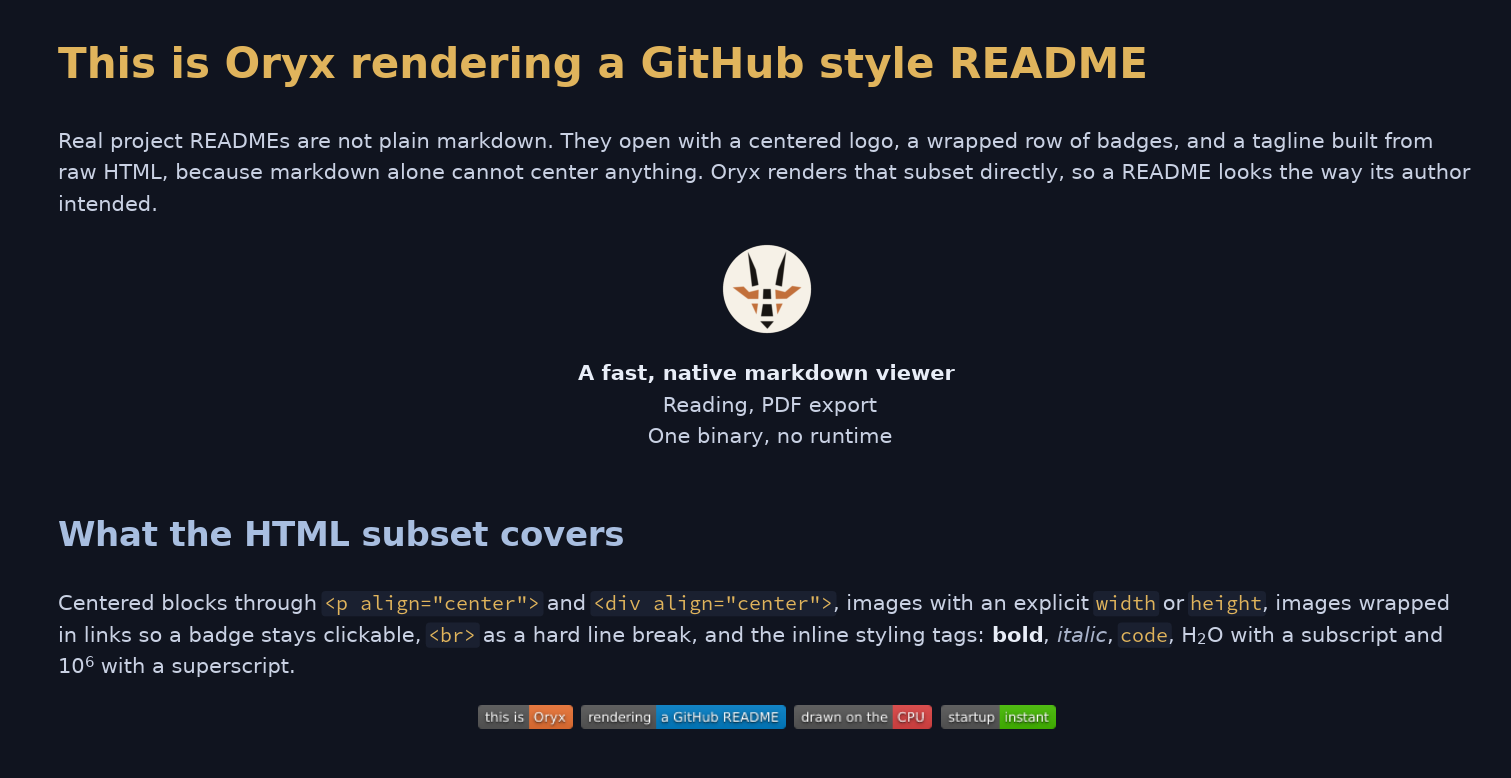
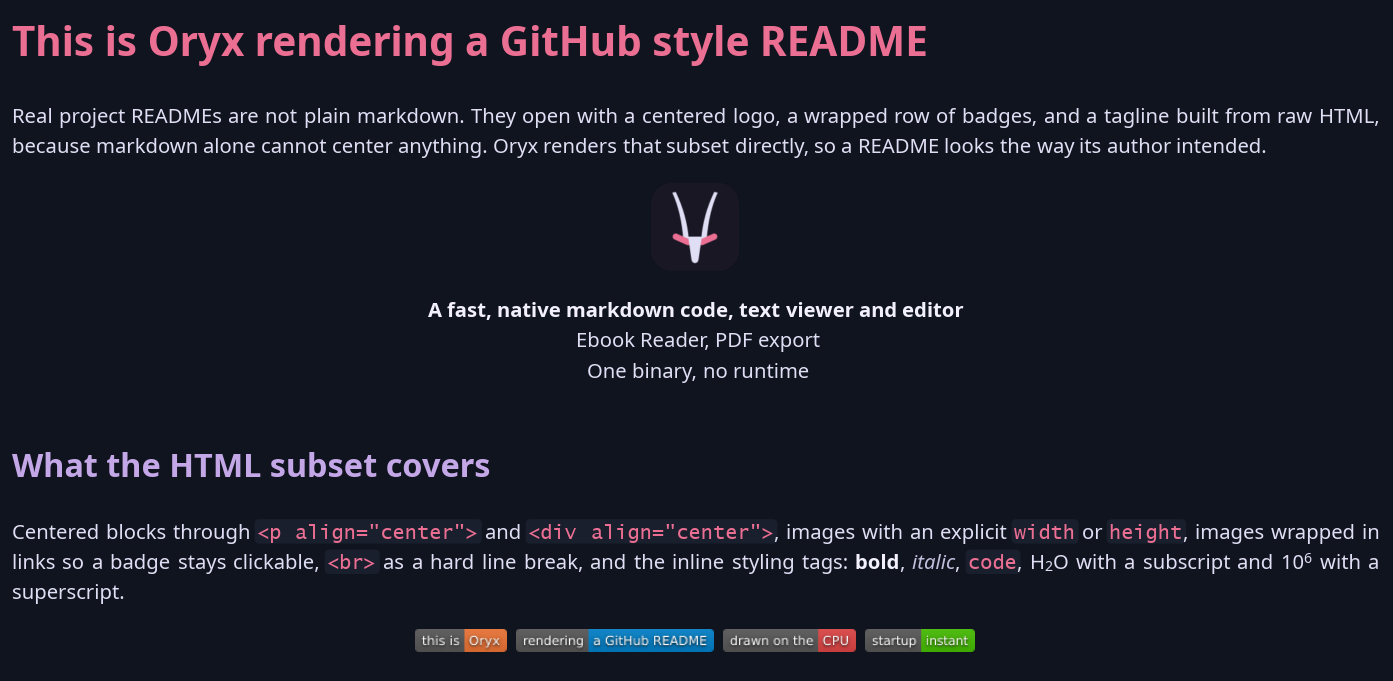
chore: 0.15.4, the editing arc complete

diff --git a/README.md b/README.md
@@ -76,7 +76,7 @@ DRM-protected books and fixed-layout books (usually comics and picture books) ar
 
 ## Tools
 
-- **Find in document**: `Ctrl+F` searches text. The search is smart about case: `oryx` matches Oryx, ORYX and oryx, while `Oryx` performs an exact match. A match can cross styling, so `fast viewer` is found even when it was written as `**fast** *viewer*`, and it can cross a wrapped line. The whole document is searchable even while a big file is still loading.
+- **Find in document**: `Ctrl+F` searches text. The search is smart about case: `oryx` matches Oryx, ORYX and oryx, while `Oryx` performs an exact match. A match can cross styling, so `fast viewer` is found even when it was written as `**fast** *viewer*`, and it can cross a wrapped line. The whole document is searchable even while a big file is still loading. The `.*` button in the search bar (or `Alt+R`) switches to regular expressions, in the Rust `fancy-regex` flavor, so capture groups, backreferences and lookarounds are available. `^` and `$` match at line starts and ends, and on the rendered page each block counts as one line. While a pattern is incomplete, the bar's border changes color instead of showing a match count. Clicking anywhere in the document closes the search bar.
 - **Select and copy**: `Ctrl+C` copies a selection as plain text. `Ctrl+Shift+C` copies the original markdown of the selection. A double click selects the word, a triple click the paragraph, the code line or the table cell. Select all is instant at any file size, a selection survives zooming, theme switches and window resizes, and both copies work before a big file has finished loading.
 - **Sidebar**: `Ctrl+Shift+B` opens a two-tab panel: the folder tree around the open file, and an outline of the document's headings that tracks the reading position, folds its branches, and jumps on a click. For a book, the outline is its table of contents. Both tabs drive entirely from the keyboard.
 - **Open file**: `Ctrl+O` opens the native file dialog.
@@ -86,9 +86,13 @@ DRM-protected books and fixed-layout books (usually comics and picture books) ar
 - **Touch**: On a touch screen, swiping scrolls the document, the sidebar and the dialogs. A swipe released while moving keeps the document scrolling with momentum. Tapping clicks, and a two-finger pinch zooms the document.
 - **Persistence**: Window geometry, the active theme, the sidebar and the last folder are all saved and restored at every start. While Oryx is open, switching between files keeps each file's place: a file left mid-edit comes back in the editor, at the same spot.
 
+<p align="center">
+  <img src="screenshots/settings.png" alt="Settings dialog in Oryx">
+</p>
+
 ## Editing
 
-Press `Ctrl+E` to enter edit mode, with a caret and the usual keys; `Escape` (or `Ctrl+E` again) returns to reading.
+Press `Ctrl+E` to enter edit mode, with a caret and the usual keys; `Escape` (or `Ctrl+E` again) returns to reading. The window title shows `editing` and a thin line in the theme's selection color runs along the top of the page, so the mode is always visible.
 
 Source code and plain text files edit on the page itself. A markdown file shows its own source instead: the page is replaced by the markdown text, drawn in the theme's colors with the markers visible. `Escape` brings the view mode with the edits applied.
 
@@ -100,9 +104,11 @@ Editing works the way a text editor does: typing, selections, `Ctrl+X` and `Ctrl
 
 `Enter` keeps the indentation of the current line. In a markdown file it also continues what you are writing: a list item gets the next marker (numbered lists count on), a task item continues unchecked, and a quoted line keeps its `>`. `Enter` on an empty item ends the list. `Tab` indents and `Shift+Tab` removes an indent, on every line of a selection at once; with the caret at a list marker, `Tab` nests the item. Whether `Tab` inserts a tab or spaces follows what the file already uses.
 
+`Ctrl+H` opens find and replace: a second field appears under the search box. `Enter` replaces the current match and moves to the next, `Ctrl+Enter` replaces every match at once, and one `Ctrl+Z` brings a replace-all back. With regular expressions, the replacement can reuse captured groups: searching `(\w+)/(\w+)` and replacing with `$2/$1` swaps the two sides of every pair. The replace field only exists in the editor; the search itself works everywhere.
+
 A task checkbox can be ticked by clicking it on the page, without entering edit mode. Nothing else on the page moves, `Ctrl+Z` undoes it, and `Ctrl+S` saves it.
 
-`Ctrl+S` saves. Oryx is careful with the file: lines that were not touched are written back unchanged, and every line keeps its own ending, so a file with Windows line endings stays that way. The window title shows a `*` while changes are unsaved. `Ctrl+Shift+S` saves under a new name.
+`Ctrl+S` saves. Oryx is careful with the file: lines that were not touched are written back unchanged, and every line keeps its own ending, so a file with Windows line endings stays that way. The window title shows a dot next to the file name while changes are unsaved. `Ctrl+Shift+S` saves under a new name.
 
 `Ctrl+N` creates a new file: the save dialog opens first, then the empty page is ready to type into. That is how Oryx knows the type of file you created to be able to apply syntax colors.
 
@@ -129,6 +135,10 @@ Nine themes are original designs: `oryx-light` and its dark twin `oryx-dark`, `o
 ## Export to PDF
 
 `Ctrl+Shift+P` opens the export settings: theme, body font and size, code font and size, page size, orientation and page numbers. Six page sizes are available: A4, Letter and Legal, and the book trim sizes. When the document is a book, a justify toggle is also present. Oryx separates the export settings from the app's own appearance and remembers them between runs. The idea is that reading in a dark theme at 22 points and exporting in a light one at 11 should not need switching back and forth each time we need an export.
+
+<p align="center">
+  <img src="screenshots/pdf-export.png" alt="Oryx export settings">
+</p>
 
 `Ctrl+P` exports the document using the configured export settings. After setting your preferences, this is usually the way to go. Markdown headings are converted to PDF outlines, and the fonts are embedded. Emoji render in the PDF as images. A book exports with each chapter starting on a new page, and its table of contents becomes the PDF outline.
 

diff --git a/SYNTAX.md b/SYNTAX.md
@@ -3,7 +3,8 @@
 Every construct Oryx recognizes, markdown and embedded HTML, shown as
 source. Each sample sits in a code block, so this file reads the same
 everywhere, including in Oryx itself. Copy any sample into a document to
-see it rendered.
+see it rendered. For math and alerts, where the result is the point,
+the rendered form also appears right under its source.
 
 ## Headings
 
@@ -65,6 +66,14 @@ Emoji shortcodes: :tada: :rocket: :warning:
 > [!WARNING]
 > [!CAUTION]
 ```
+
+The first two, rendered:
+
+> [!NOTE]
+> A note renders with its own color and title.
+
+> [!TIP]
+> A tip renders in its own color too.
 
 ## Code
 
@@ -138,6 +147,18 @@ $$
 ```
 ````
 
+The same samples, rendered:
+
+Inline math: $e^{i\pi} + 1 = 0$, or fenced: $`a^2 + b^2 = c^2`$
+
+$$
+\sum_{n=1}^{\infty} \frac{1}{n^2} = \frac{\pi^2}{6}
+$$
+
+```math
+\int_{-\infty}^{\infty} e^{-x^2}\,dx = \sqrt{\pi}
+```
+
 All four GitHub notations typeset through the same TeX engine in STIX
 Two Math. Oryx infers whether a dollar sign is a currency or a math
 delimiter: a digit right after a closing dollar, as in `$5-$10`, keeps
@@ -156,6 +177,12 @@ a\,b \quad c\;d \quad e\!f \quad g \qquad h
 \begin{aligned} x &= y \\ z &= w \end{aligned}
 \newcommand{\avg}[1]{\left\langle #1 \right\rangle} \avg{x^2}
 ```
+
+A few of these, rendered:
+
+$$
+\begin{pmatrix} a & b \\ c & d \end{pmatrix} \quad \sqrt[3]{x^3+y^3} \quad \begin{cases} x & x \geq 0 \\ -x & x < 0 \end{cases} \quad \mathbb{R} \quad \hat{x}
+$$
 
 The command vocabulary follows KaTeX's: Greek letters with their
 variants, binary operators, relations and their negations, arrows, big
@@ -285,3 +312,28 @@ x<sup>2</sup> H<sub>2</sub>O line<br>break
 
 The five basic entities decode everywhere in HTML text, verbatim inside
 `<pre>`.
+
+## Useful searches
+
+`Ctrl+F` searches any document, and the `.*` button in the search bar
+(or `Alt+R`) switches to regular expressions, in the Rust `fancy-regex`
+flavor. Some searches worth keeping around:
+
+| Pattern | Finds |
+|---|---|
+| `TODO\|FIXME` | task markers left in a file |
+| `\bhttps?://\S+` | web links written out |
+| `\d{4}-\d{2}-\d{2}` | dates like 2026-08-16 |
+| `\b(\w+) \1\b` | the same word typed twice in a row |
+| `"[^"]*"` | anything between double quotes |
+| `^#+ ` | heading lines, in a markdown source |
+| ` +$` | spaces left at the end of a line |
+
+In the editor, `Ctrl+H` adds a replace field, and a replacement can
+reuse captured groups:
+
+| Search | Replace | Result |
+|---|---|---|
+| `(\w+)/(\w+)` | `$2/$1` | swaps the two sides of every pair |
+| ` +$` | nothing | strips trailing spaces; `Ctrl+Enter` does the whole file |
+| `- \[ \]` | `- [x]` | ticks every open task |

diff --git a/tests/showcase/github.md b/tests/showcase/github.md
@@ -10,8 +10,8 @@ looks the way its author intended.
 </p>
 
 <p align="center">
-<b>A fast, native markdown viewer</b><br>
-Reading, PDF export<br>
+<b>A fast, native markdown code, text viewer and editor</b><br>
+Ebook Reader, PDF export<br>
 One binary, no runtime
 </p>
 
